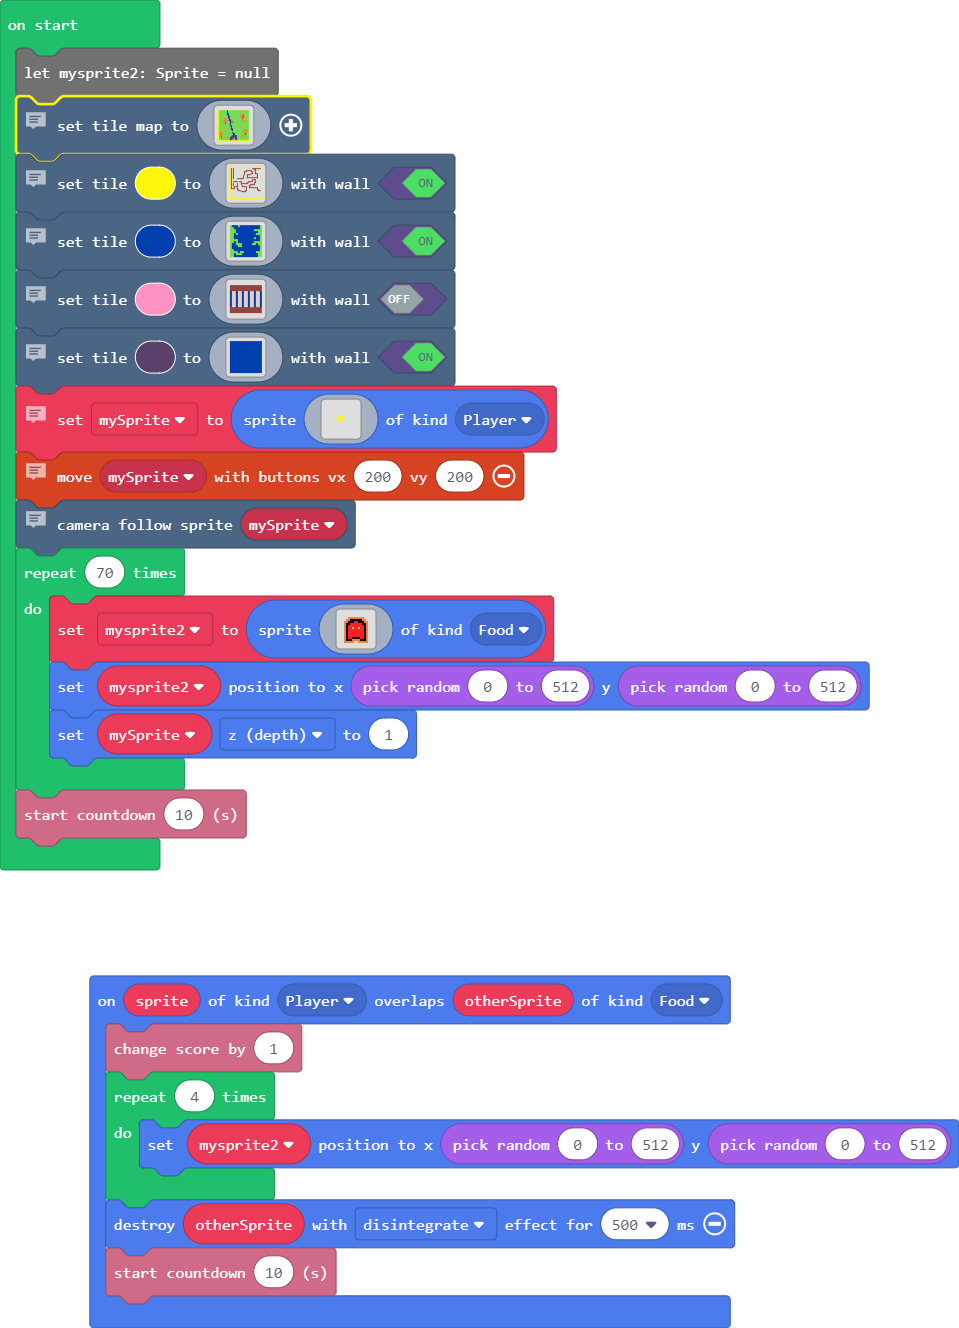
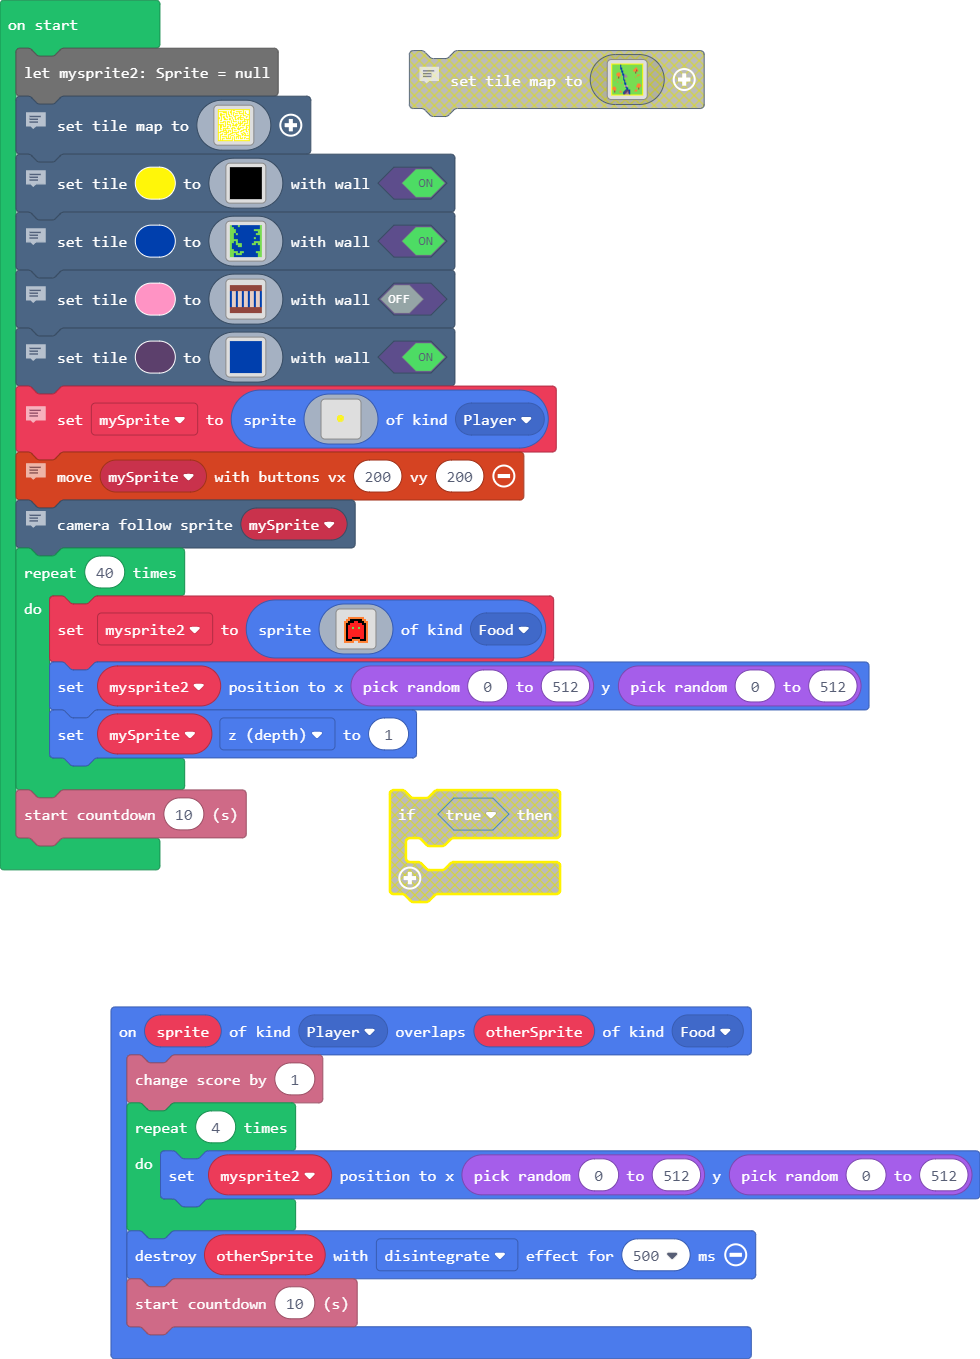
mazefinal

Changed region(s): [[0.0, 0.0, 0.9072, 0.6792], [0.0907, 0.7101, 1.0, 1.0], [0.756, 0.988, 0.7862, 1.0]]

diff --git a/main.ts b/main.ts
@@ -10,73 +10,73 @@ let mysprite2: Sprite = null
 // map
 scene.setTileMap(img`
 5 5 5 5 5 5 5 5 5 5 5 5 5 5 5 5 5 5 5 5 5 5 5 5 5 5 5 5 5 5 5 5 
-5 7 7 7 7 7 7 7 7 8 7 7 7 7 7 7 7 7 7 7 7 7 7 7 7 7 7 7 7 7 7 5 
-5 7 7 7 7 7 7 7 7 8 7 7 7 7 7 7 7 7 7 7 7 7 7 7 7 7 7 7 7 7 7 5 
-5 7 7 7 7 7 7 7 7 8 7 7 7 7 7 7 7 7 7 7 7 7 7 7 7 7 7 7 7 7 7 5 
-5 7 7 7 7 7 7 7 7 8 8 7 7 7 7 7 7 7 7 7 7 7 7 7 4 4 7 7 7 7 7 5 
-5 7 7 7 7 7 7 7 7 8 8 7 7 7 7 7 7 7 7 7 7 7 7 4 4 4 7 7 7 7 7 5 
-5 7 7 7 7 7 7 7 7 7 8 7 7 7 7 7 7 7 7 7 7 7 4 4 4 e 4 7 7 7 7 5 
-5 7 7 7 7 7 7 7 7 7 8 8 7 7 7 7 7 7 7 7 7 7 4 4 4 e 4 7 7 7 7 5 
-5 7 7 7 7 7 7 7 7 7 8 8 7 7 7 7 7 7 7 7 7 7 7 7 e 7 7 7 7 7 7 5 
-5 7 7 7 7 7 4 4 4 7 7 8 7 7 7 7 7 7 7 7 7 7 7 7 e 7 7 7 7 7 7 5 
-5 7 7 7 7 4 4 4 4 7 7 8 8 7 7 7 7 7 7 7 7 7 7 7 7 7 7 7 7 7 7 5 
-5 7 7 7 7 4 4 4 4 4 7 8 8 b b 7 7 7 7 7 7 7 7 7 7 7 4 4 4 7 7 5 
-5 7 7 7 7 7 4 4 4 7 7 7 8 b b b 7 7 7 7 7 7 7 7 7 7 4 7 7 7 7 5 
-5 7 7 7 7 7 7 e 7 7 7 7 8 b b b 7 7 7 7 7 7 7 7 4 7 7 7 7 7 7 5 
-5 7 7 7 7 4 7 e 7 7 7 7 8 7 7 7 7 7 7 7 7 7 7 7 7 7 7 7 7 7 7 5 
-5 7 7 7 7 7 7 7 7 7 7 7 8 7 7 7 7 7 7 7 7 7 7 7 7 7 7 7 7 7 7 5 
-5 7 7 4 7 7 7 7 7 7 7 7 8 8 7 7 7 7 7 7 7 7 7 7 7 7 7 7 7 7 7 5 
-5 7 7 7 7 7 7 7 7 7 7 7 7 8 4 7 7 7 7 7 7 7 7 7 7 7 7 7 7 7 7 5 
-5 7 7 7 7 7 4 7 7 7 7 7 7 8 7 7 7 7 7 7 7 7 7 7 7 7 7 7 7 7 7 5 
-5 7 7 7 7 7 7 7 7 7 4 7 7 8 8 7 7 7 7 7 7 7 7 7 7 7 7 7 7 7 7 5 
-5 7 7 7 7 7 7 7 7 7 7 7 7 8 8 7 7 7 7 7 7 7 7 7 7 7 4 4 4 7 7 5 
-5 7 7 7 7 7 7 7 7 7 7 7 7 7 8 7 7 7 7 7 7 7 7 7 7 7 4 4 4 4 7 5 
-5 7 7 7 7 7 7 7 7 7 7 7 7 3 3 3 3 7 7 7 7 7 7 7 7 4 4 4 4 4 7 5 
-5 7 4 4 7 7 7 7 7 7 7 7 7 7 8 8 7 7 7 7 7 7 7 7 7 4 4 4 4 7 7 5 
-5 4 4 4 4 7 7 7 7 7 7 7 7 7 7 8 8 7 7 7 7 7 7 7 7 7 7 e 7 7 7 5 
-5 4 4 4 4 7 7 7 7 7 7 7 7 7 7 8 8 7 7 7 7 7 7 7 7 7 7 e 7 7 7 5 
-5 7 4 4 4 7 7 7 7 7 7 7 7 7 8 c c 8 8 7 7 7 7 7 4 4 7 7 7 7 7 5 
-5 7 7 e 7 7 7 7 7 4 7 7 7 8 c c c c 8 7 7 7 7 4 4 4 7 7 7 7 7 5 
-5 7 7 e 7 7 7 7 4 4 4 7 8 c c c b c 8 7 7 7 7 7 7 7 7 7 7 7 7 5 
-5 7 7 7 7 7 7 7 7 7 7 7 8 c c b b c 8 7 7 7 7 7 7 7 7 7 7 7 7 5 
-5 7 7 7 7 7 7 7 7 7 7 7 8 c b b b b 8 7 7 7 7 7 7 7 7 7 7 7 7 5 
-5 5 5 5 5 5 5 5 5 5 5 5 5 5 5 5 5 5 5 5 5 5 5 5 5 5 5 5 5 5 5 5 
+5 1 1 1 1 1 1 1 1 1 1 1 1 5 1 5 5 1 1 1 1 1 1 1 1 5 1 1 1 1 1 5 
+5 5 5 5 5 5 5 5 5 1 5 1 5 5 1 1 1 1 5 5 5 5 5 5 1 5 1 5 1 1 1 5 
+5 1 1 1 1 5 5 5 5 1 5 1 5 5 1 5 5 1 1 1 1 5 1 1 1 5 1 5 1 1 1 5 
+5 1 5 5 1 1 1 1 5 1 5 1 1 5 1 5 1 5 5 5 1 5 5 5 5 5 1 5 5 1 1 5 
+5 1 5 5 5 5 5 1 5 1 5 5 1 5 1 5 1 1 1 1 1 1 1 1 1 5 1 1 1 5 5 5 
+5 1 5 5 1 1 1 1 5 1 1 5 1 1 1 5 1 5 5 5 5 1 5 5 1 5 5 5 1 1 1 5 
+5 1 1 5 1 5 5 1 5 5 1 5 5 5 1 1 5 5 1 1 1 1 5 1 1 1 1 1 5 5 1 5 
+5 5 1 5 1 5 5 1 1 5 1 1 1 1 5 1 1 5 1 1 5 5 5 5 5 5 1 1 5 1 1 5 
+5 5 1 5 1 1 5 5 1 1 1 5 5 1 5 1 1 5 1 5 5 1 5 1 1 1 5 1 1 1 1 5 
+5 1 1 5 1 1 5 5 5 5 1 5 5 1 1 5 1 5 5 1 5 1 5 5 5 1 5 5 5 5 5 5 
+5 1 5 5 1 1 1 1 1 1 1 1 1 5 1 5 1 1 1 1 1 1 1 1 1 1 5 1 1 5 1 5 
+5 1 1 1 1 5 5 5 1 5 5 5 1 5 1 5 5 5 5 1 5 1 5 1 5 5 5 5 1 5 1 5 
+5 1 5 5 5 5 1 5 1 5 1 5 1 5 1 1 1 1 1 1 5 1 5 1 5 1 1 1 1 5 1 5 
+5 1 1 1 1 1 1 5 1 5 1 1 1 1 5 5 1 1 5 1 5 5 5 5 5 1 5 5 5 5 1 5 
+5 5 5 5 5 5 1 5 1 5 5 5 5 1 1 5 1 5 5 5 1 1 5 1 1 1 5 1 1 1 1 5 
+5 1 5 5 1 5 1 5 1 1 1 1 5 1 5 5 5 5 5 1 1 5 5 1 5 5 5 1 5 5 5 5 
+5 1 5 5 1 5 5 5 1 5 5 1 5 1 1 1 1 1 5 1 5 1 1 1 1 1 1 1 5 1 1 5 
+5 1 5 5 1 1 1 1 1 5 1 1 1 1 5 5 5 1 1 1 5 1 5 5 5 5 1 1 5 5 1 5 
+5 1 5 1 1 5 5 5 5 5 5 5 1 5 5 1 5 5 1 5 5 5 5 1 1 1 1 1 5 1 1 5 
+5 1 5 5 1 5 1 5 1 1 1 1 1 1 5 1 1 1 1 1 5 5 1 1 1 5 5 5 5 1 5 5 
+5 1 1 1 1 5 5 5 5 1 5 5 5 1 5 1 5 5 5 1 1 1 1 5 5 5 1 1 5 1 1 5 
+5 1 5 5 5 5 1 1 5 1 5 1 5 1 5 1 1 1 1 1 5 1 5 5 1 1 1 1 5 5 1 5 
+5 5 5 1 1 1 5 5 5 5 5 1 1 1 5 5 5 5 5 5 5 1 1 1 1 5 5 1 1 1 1 5 
+5 1 1 1 5 1 1 1 5 1 1 1 5 5 5 1 1 1 5 1 1 1 1 5 5 1 5 5 1 5 1 5 
+5 1 5 5 5 1 5 5 5 1 5 5 5 1 1 1 5 1 5 5 5 1 1 1 5 5 1 5 1 1 1 5 
+5 1 5 1 1 1 1 1 1 1 5 1 1 5 5 5 1 1 1 1 5 5 5 1 5 1 5 5 5 5 5 5 
+5 1 5 1 5 5 5 5 5 1 5 1 5 1 1 1 5 1 5 5 5 1 5 1 1 1 1 1 1 1 1 5 
+5 1 5 1 1 1 1 1 5 1 5 1 5 1 5 1 5 1 5 1 5 1 5 1 5 1 5 5 1 1 1 5 
+5 1 5 1 5 5 5 1 5 5 5 5 5 1 5 1 5 1 5 1 5 1 5 5 5 1 5 1 5 5 5 5 
+5 1 5 1 5 1 1 1 1 1 1 1 1 1 5 1 5 1 1 1 1 1 1 1 1 1 1 1 1 1 1 5 
+5 5 5 5 5 5 5 5 5 5 5 5 5 5 5 1 5 5 5 5 5 5 5 5 5 5 5 5 5 5 5 5 
 `)
 // when turned on, player cannot move to this color.
 // there is a color texture to add to the yellow
 scene.setTile(5, img`
-5 5 5 5 5 5 5 5 5 5 5 5 5 5 5 5 5 5 5 5 5 5 5 5 5 5 5 5 5 5 5 5 
-5 e . e . . . . . . . . . . . . . . . . . . e e e e e e e e e 5 
-5 e . e . . . . . . . . . . . . . . . . . . . . e e . . . . . 5 
-5 e . e . . . . . . . . . . . . e e e e e e . . . e . . . . . 5 
-5 e . e . . . . . . . . . . e e e . . . . e e . . e . . . . . 5 
-5 e . e . . . . . . . . . . e . . . . . . . e . . e . . . . . 5 
-5 e . e . . . . . . . . . . e . . . . . . e e . . e e e . . . 5 
-5 e . e . . . . . . . . . . e . . e e e e . . . . . . e . . . 5 
-5 e . e . . . . . . . . . e . . . e . . . . . . . . . e . . . 5 
-5 e . e . . . . . . . . . e . . . e . . . . . . . . . e . . . 5 
-5 e . e . . . . . . . . . e . . . e e e e e e e e e e e . . . 5 
-5 e . e . . . e e e e e e e . . . . . . . . . . . . . . . . . 5 
-5 e . . . . . . . . . . . . . . . . . . . . e e e e . . . . . 5 
-5 e . . . . . . . . . . . . . . . . . . . . e . . e . . . . . 5 
-5 e . e e e e e . e e e . . . . . . e e e e e . . e . . . . . 5 
-5 e . . . . . . . . . e . . . . . e e . . . . . e e . . . . . 5 
-5 e . e . . . e . . . e e e e e e e . . . . . . e . . . . . . 5 
-5 e . e . . . e . . . e . . . . . . . . e e e e e . . . . . . 5 
-5 e . e . . . e . . . . e . . . . . . e e . . . . . . . . . . 5 
-5 e . . e e e e . . . . e e e e e . . e . . . . . . . . . . . 5 
-5 e . . e . . e . . . . . . . . e . . e e e e e e e e e . . . 5 
-5 e e e e . . e . . . . . . . . e . . . . . . . . . . e . . . 5 
-5 . . . . . . e e . . . . . . . e . . . . . . . . . . e e . . 5 
-5 . . . . . . . e e e . . . . e e . . . . . . . . . . . e e e 5 
-5 . . . . . . . . . . e e e e e . . . . . . . . . . . . . . . 5 
-5 . . . . . . . . . . . . . . . . . . . . . . . . . . . . . . 5 
-5 . . . . . . . . . . . . . . . . . . . . . . . . . . . . . . 5 
-5 . . . . . . . . . . . . . . . . . . . . . . . . . . . . . . 5 
-5 . . . . . . . . . . . . . . . . . . . . . . . . . . . . . . 5 
-5 . . . . . . . . . . . . . . . . . . . . . . . . . . . . . . 5 
-5 . . . . . . . . . . . . . . . . . . . . . . . . . . . . . . 5 
-5 5 5 5 5 5 5 5 5 5 5 5 5 5 5 5 5 5 5 5 5 5 5 5 5 5 5 5 5 5 5 5 
+f f f f f f f f f f f f f f f f f f f f f f f f f f f f f f f f 
+f f f f f f f f f f f f f f f f f f f f f f f f f f f f f f f f 
+f f f f f f f f f f f f f f f f f f f f f f f f f f f f f f f f 
+f f f f f f f f f f f f f f f f f f f f f f f f f f f f f f f f 
+f f f f f f f f f f f f f f f f f f f f f f f f f f f f f f f f 
+f f f f f f f f f f f f f f f f f f f f f f f f f f f f f f f f 
+f f f f f f f f f f f f f f f f f f f f f f f f f f f f f f f f 
+f f f f f f f f f f f f f f f f f f f f f f f f f f f f f f f f 
+f f f f f f f f f f f f f f f f f f f f f f f f f f f f f f f f 
+f f f f f f f f f f f f f f f f f f f f f f f f f f f f f f f f 
+f f f f f f f f f f f f f f f f f f f f f f f f f f f f f f f f 
+f f f f f f f f f f f f f f f f f f f f f f f f f f f f f f f f 
+f f f f f f f f f f f f f f f f f f f f f f f f f f f f f f f f 
+f f f f f f f f f f f f f f f f f f f f f f f f f f f f f f f f 
+f f f f f f f f f f f f f f f f f f f f f f f f f f f f f f f f 
+f f f f f f f f f f f f f f f f f f f f f f f f f f f f f f f f 
+f f f f f f f f f f f f f f f f f f f f f f f f f f f f f f f f 
+f f f f f f f f f f f f f f f f f f f f f f f f f f f f f f f f 
+f f f f f f f f f f f f f f f f f f f f f f f f f f f f f f f f 
+f f f f f f f f f f f f f f f f f f f f f f f f f f f f f f f f 
+f f f f f f f f f f f f f f f f f f f f f f f f f f f f f f f f 
+f f f f f f f f f f f f f f f f f f f f f f f f f f f f f f f f 
+f f f f f f f f f f f f f f f f f f f f f f f f f f f f f f f f 
+f f f f f f f f f f f f f f f f f f f f f f f f f f f f f f f f 
+f f f f f f f f f f f f f f f f f f f f f f f f f f f f f f f f 
+f f f f f f f f f f f f f f f f f f f f f f f f f f f f f f f f 
+f f f f f f f f f f f f f f f f f f f f f f f f f f f f f f f f 
+f f f f f f f f f f f f f f f f f f f f f f f f f f f f f f f f 
+f f f f f f f f f f f f f f f f f f f f f f f f f f f f f f f f 
+f f f f f f f f f f f f f f f f f f f f f f f f f f f f f f f f 
+f f f f f f f f f f f f f f f f f f f f f f f f f f f f f f f f 
+f f f f f f f f f f f f f f f f f f f f f f f f f f f f f f f f 
 `, true)
 // water
 scene.setTile(8, img`
@@ -166,7 +166,7 @@ let mySprite = sprites.create(img`
 controller.moveSprite(mySprite, 200, 200)
 // see where you are when you are moving
 scene.cameraFollowSprite(mySprite)
-for (let index = 0; index < 70; index++) {
+for (let index = 0; index < 40; index++) {
     mysprite2 = sprites.create(img`
 . . . . . . . . . . . . . . . . 
 . . . . . . . . . . . . . . . . 
